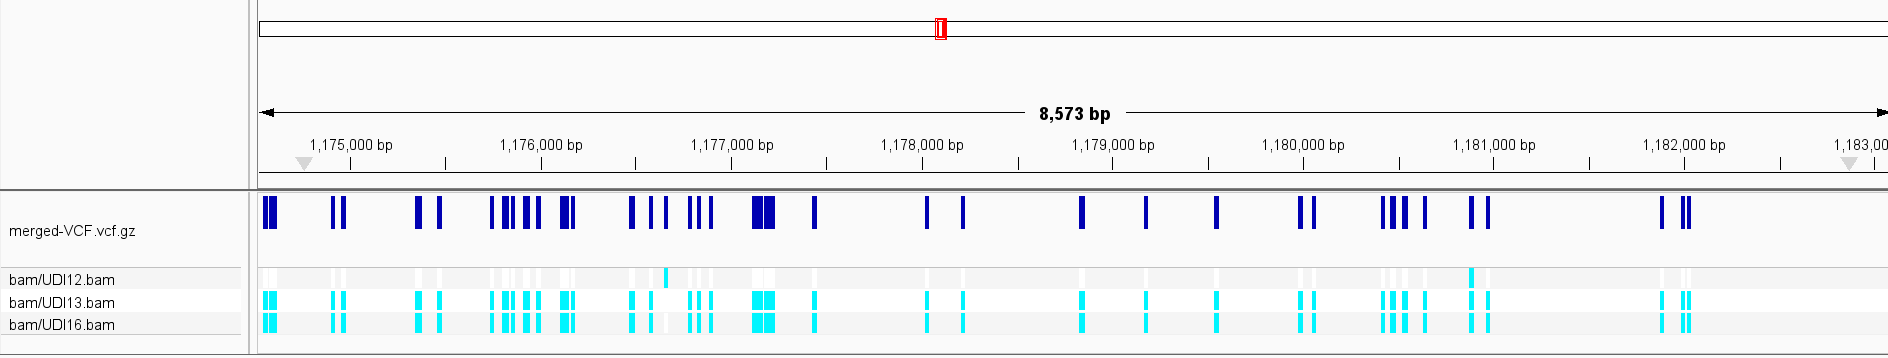
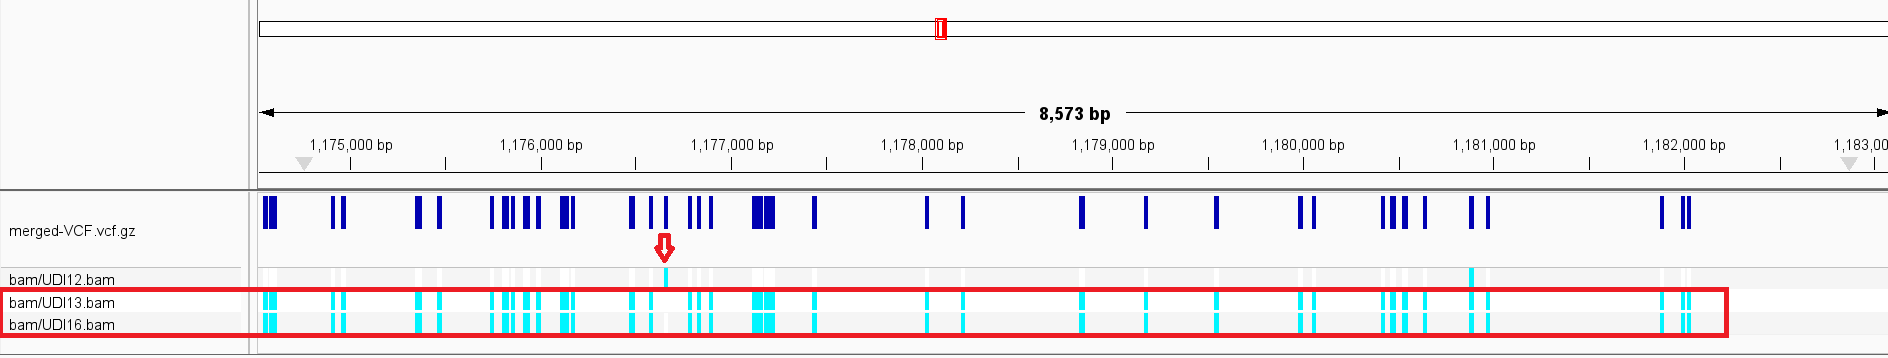
image + BAM compile added

Changed region(s): [[0.0, 0.9218, 0.9375, 0.9525], [0.0, 0.7989, 0.9375, 0.8296], [0.3438, 0.6453, 0.375, 0.7374]]

diff --git a/week08/README.md b/week08/README.md
@@ -49,6 +49,19 @@ make merge
 
 To merge together ALL VCF files that are in the VCF folder. 
 
+
+You may also wish to combine variants from the BAM files rather than the VCF files, which show variation that is hidden by gaps in coverage. 
+
+To run this version, use
+```
+make mergeBAM
+```
+
+There is little difference between the two outputs. However, I did notice this extra variant in the BAM file compliation, so it may be a more detailed option. 
+
+![variant noticed](images/vcf_versus_BAM.png)
+
+
 ## Variant Comparision 
 
 Load the Staph FASTA, GFF, and merged VCF files into IGV. 
